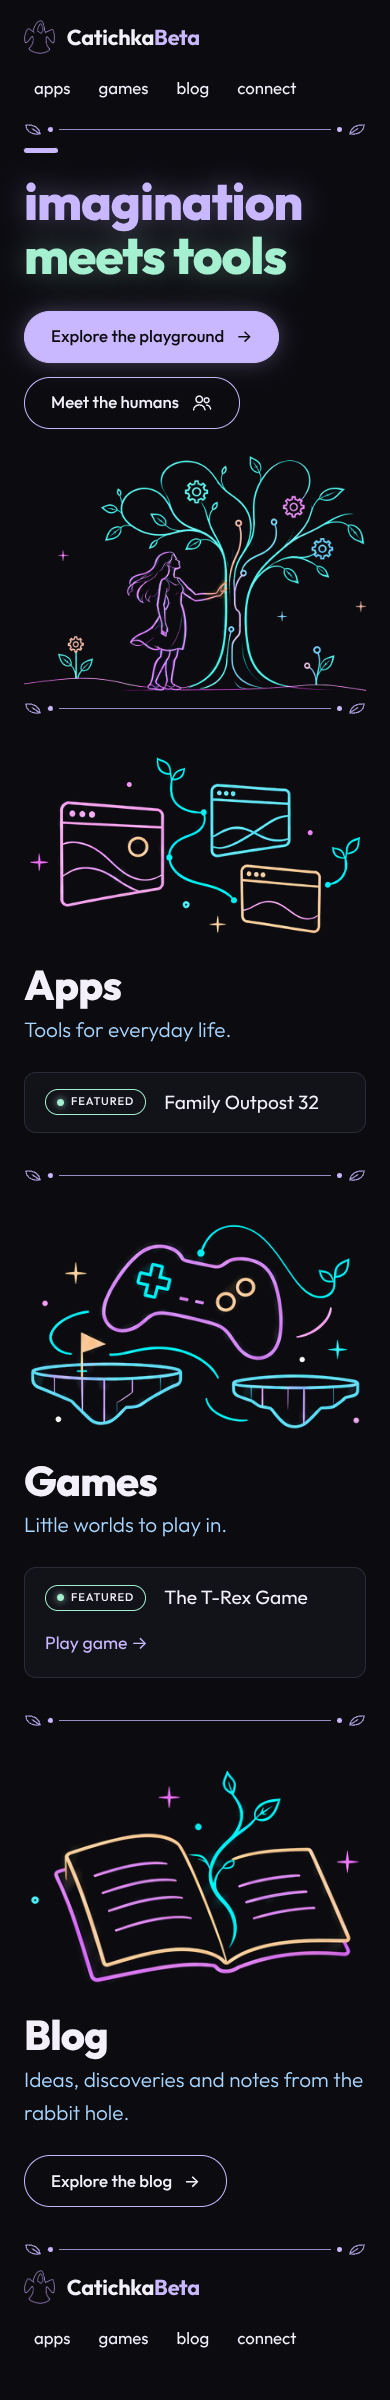
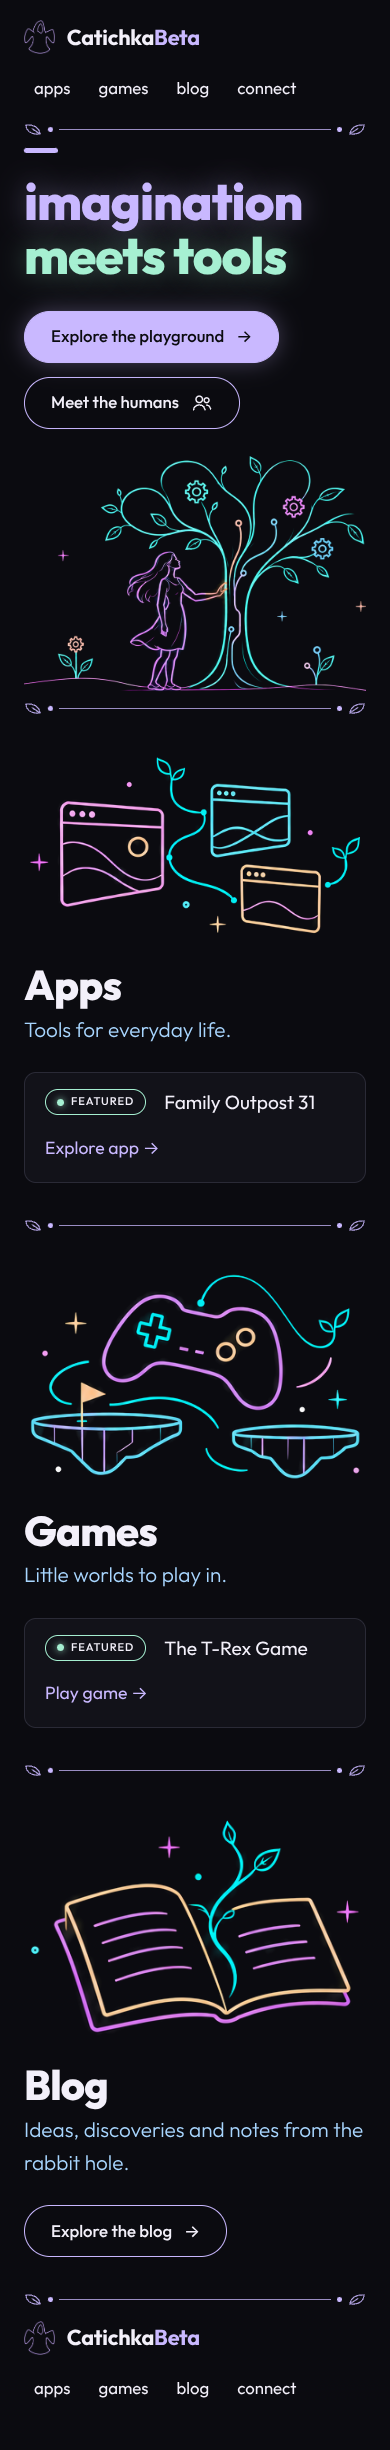
Dead links for connect, Meet the humans and Family Outpost 31
Cat's call: connect and Meet the humans will get their own pages, and
Family Outpost 31 isn't ready to share, so they render as designed but
aren't clickable until links.connect / links.humans / the app's url are
set. Renames Family Outpost 32 to 31 and drops the guessed email.

Claude-Session: https://claude.ai/code/session_01C21pfwuNXdmRSgiA8k8xiK

diff --git a/src/site.ts b/src/site.ts
@@ -2,15 +2,19 @@
 export const site = {
   name: 'CatichkaBeta',
   description: 'imagination meets tools. Apps, games and notes from the rabbit hole.',
-  // Where "connect" goes. Not agreed yet: confirm the address before launch.
-  connect: 'mailto:hello@catichkabeta.com',
+};
+
+// Links with no destination yet render as dead (visible, not clickable). Set an href to bring one to life.
+export const links = {
+  connect: null as string | null, // its own connect page, not designed yet
+  humans: null as string | null, // its own "Meet the humans" page, not designed yet
 };
 
 export const nav = [
   { href: '/#apps', label: 'apps' },
   { href: '/#games', label: 'games' },
   { href: '/blog/', label: 'blog' },
-  { href: site.connect, label: 'connect' },
+  { href: links.connect, label: 'connect' },
 ];
 
 export const art = {

diff --git a/src/styles/global.css b/src/styles/global.css
@@ -31,6 +31,11 @@ h1, h2, h3 { line-height: 1.05; letter-spacing: -0.02em; font-weight: 800; }
 .wrap { max-width: var(--max); margin: 0 auto; padding: 0 24px; }
 .muted { color: var(--muted); }
 
+/* Dead links: shown as designed but not clickable until they have a destination */
+a[aria-disabled='true'] { cursor: default; }
+.nav a[aria-disabled='true']:hover, .btn.ghost[aria-disabled='true']:hover { color: var(--text); box-shadow: none; }
+.project-action[aria-disabled='true']:hover { color: var(--lavender); }
+
 /* Header and footer share one bar */
 .site-bar { display: flex; align-items: center; justify-content: space-between; gap: 12px 24px; flex-wrap: wrap; padding-top: 20px; padding-bottom: 14px; }
 footer .site-bar { padding: 14px 0 40px; }

diff --git a/src/content/apps/family-outpost.md b/src/content/apps/family-outpost.md
@@ -1,6 +1,6 @@
 ---
-title: Family Outpost 32
+title: Family Outpost 31
 featured: true
 order: 1
-# url: add the app's link here once it has one
+# url: add when the app is ready to share
 ---
